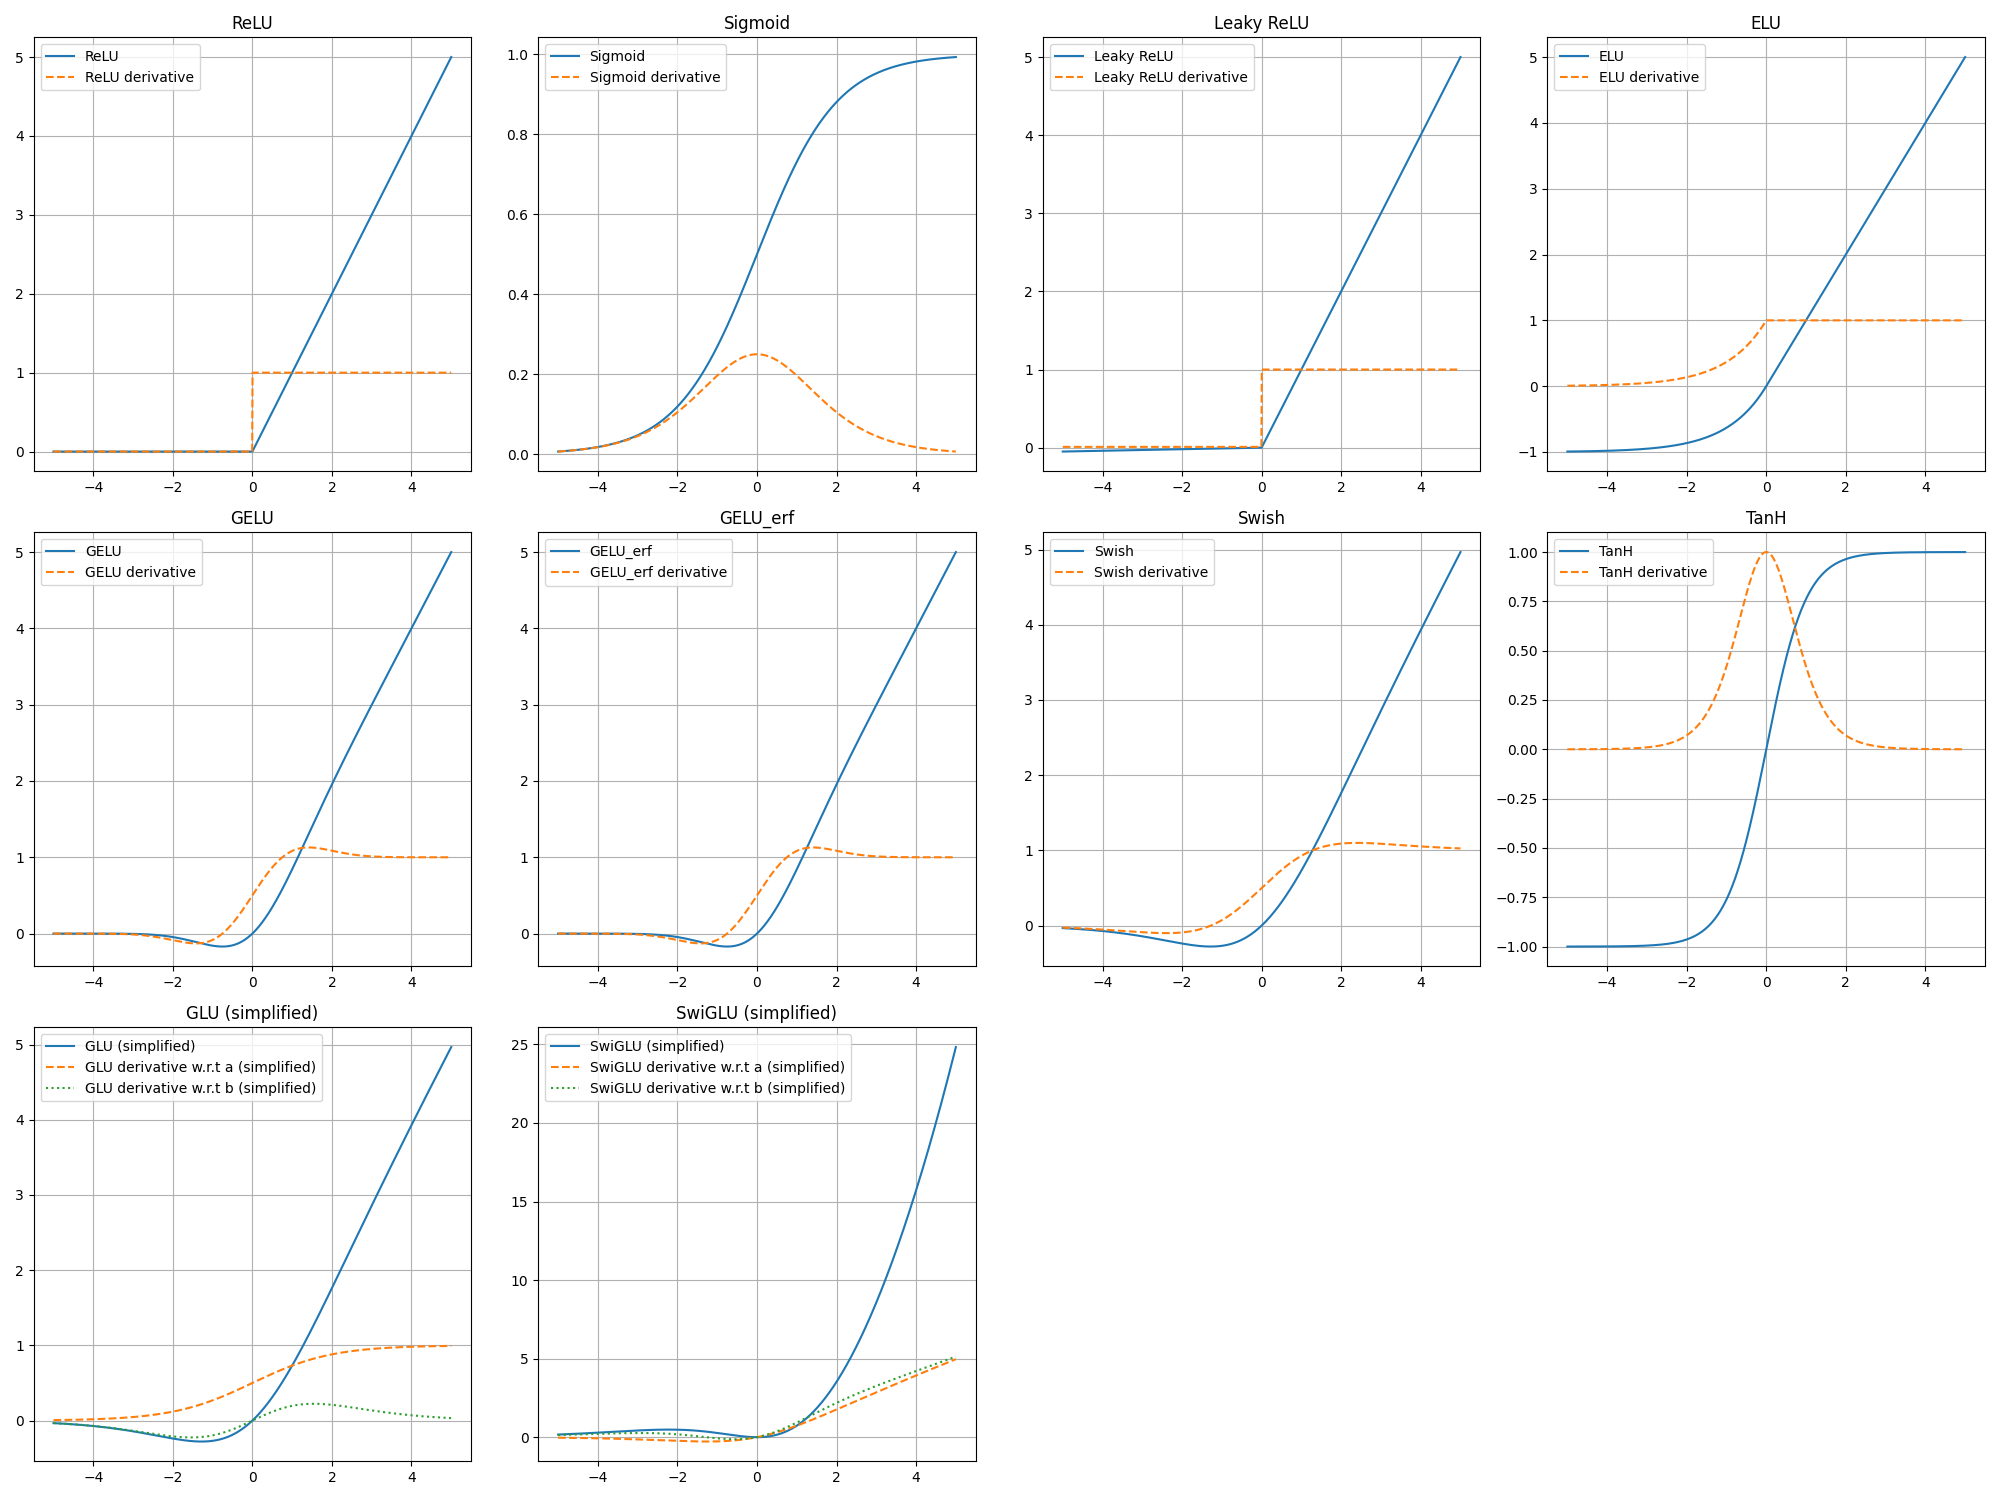
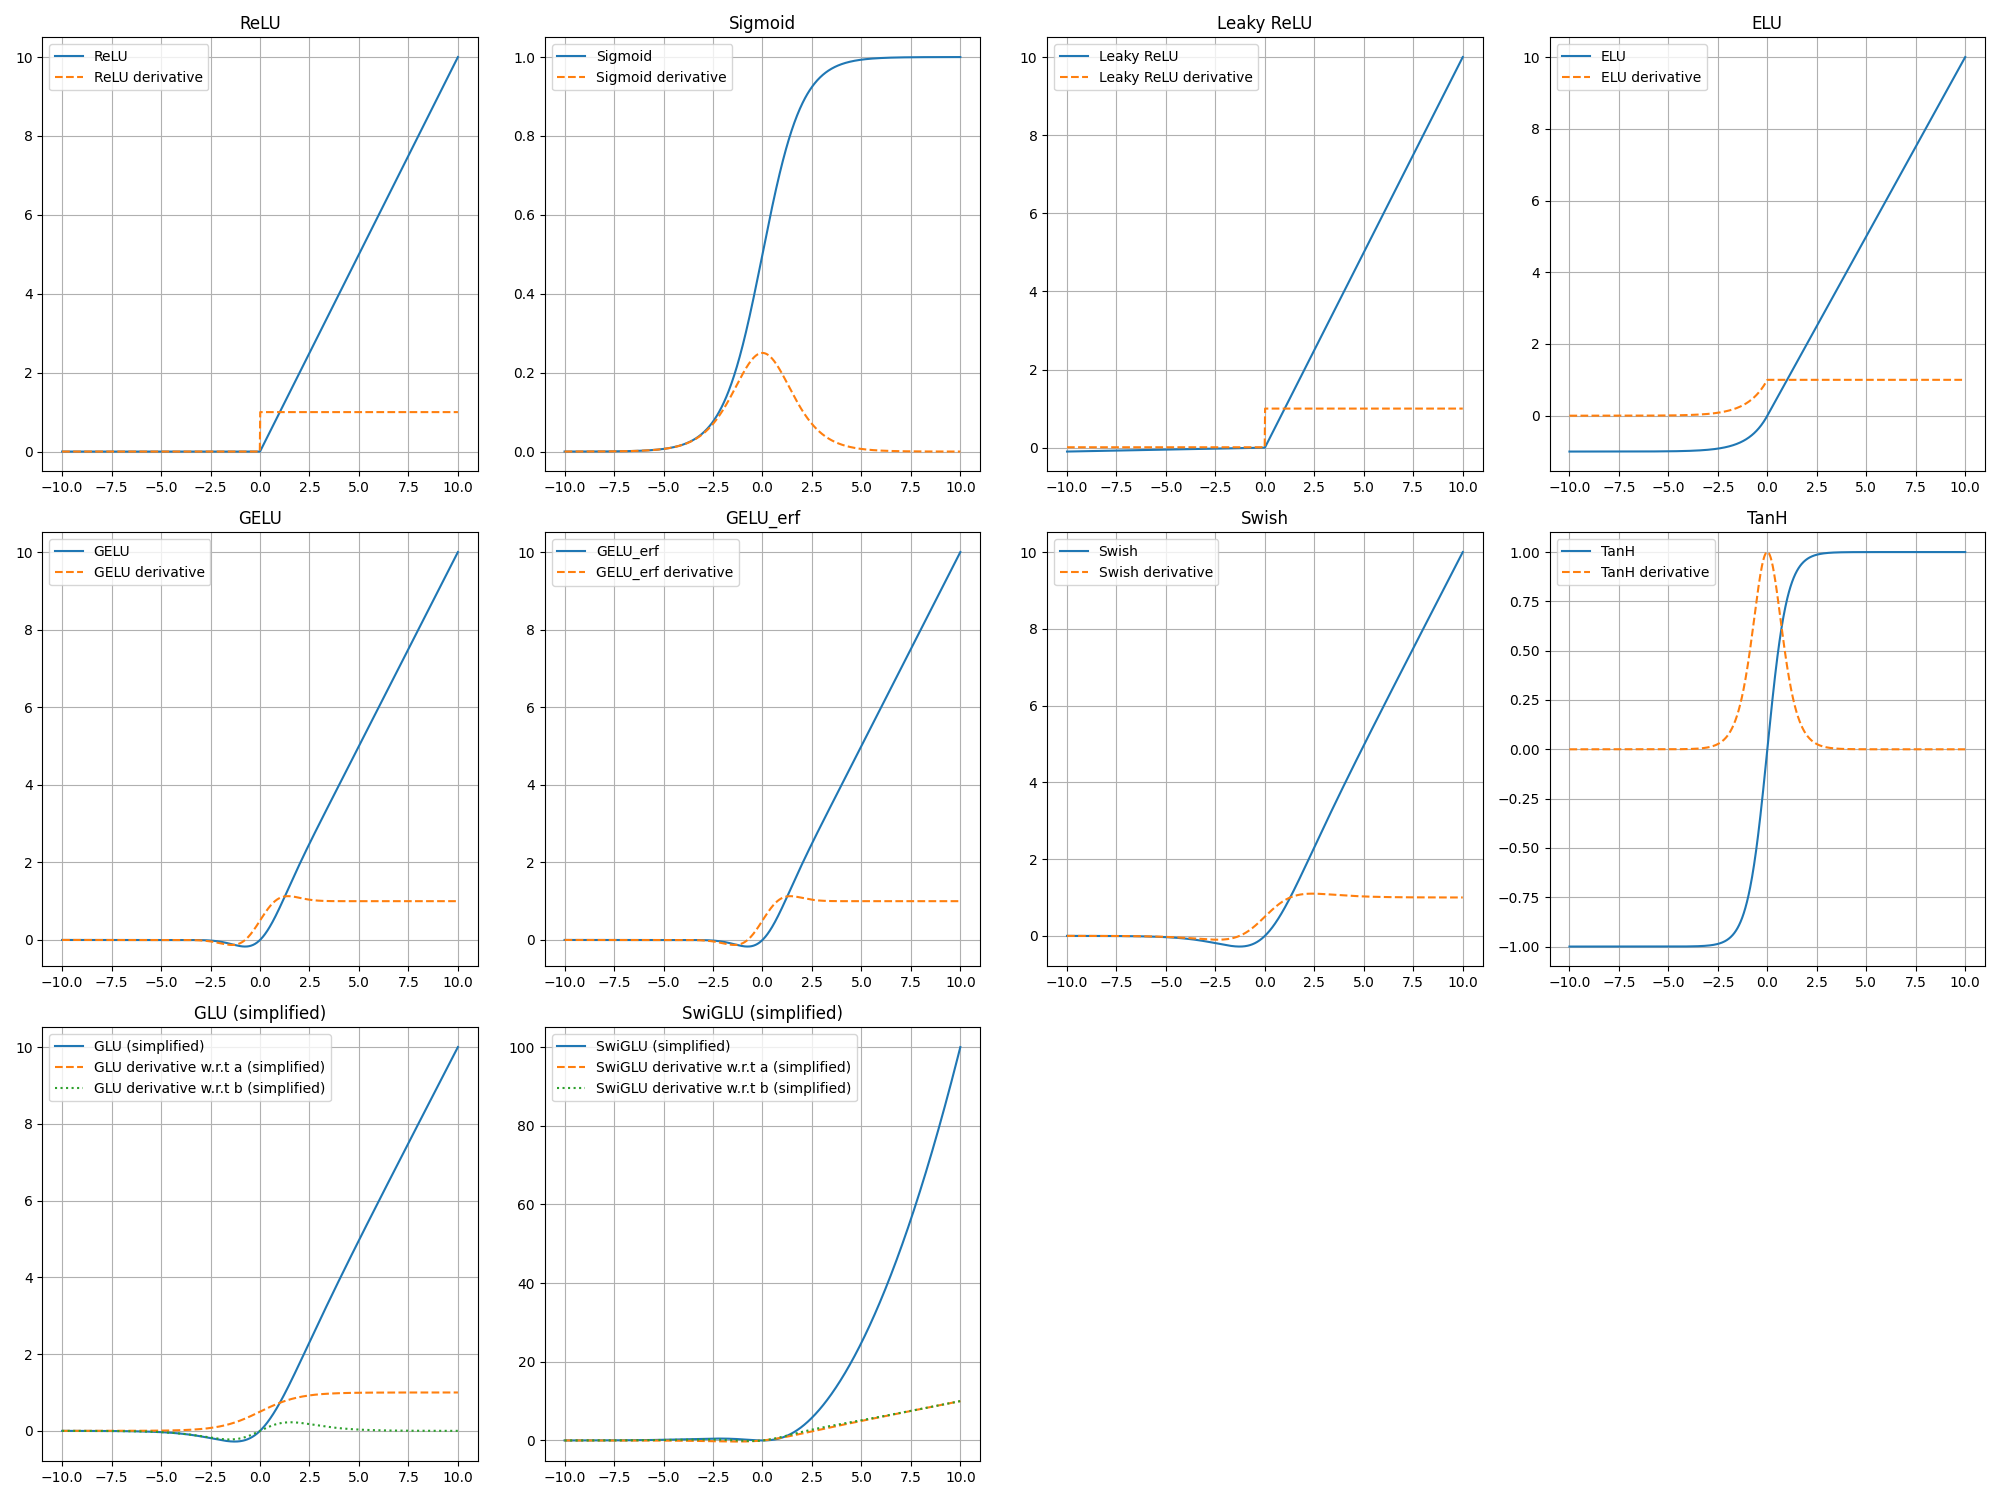
[#3] feat: enlarge the range for plot

diff --git a/Activation/activation_valid.py b/Activation/activation_valid.py
@@ -151,7 +151,7 @@ def pytorch_swiglu(x, dim=-1):
 
 def validate_activations():
     # Create input data
-    x = np.linspace(-5, 5, 1000)
+    x = np.linspace(-10, 10, 1000)
 
     # Dictionary to hold functions and their PyTorch equivalents
     functions = {

diff --git a/README.md b/README.md
@@ -1,12 +1,15 @@
 # Parallel_Lab
 This repo is created to learn paralleism technology
 
-## 📋 CUDA
+## 📋 DNN and Attention
 
-flash attention v1 & v2
+# flash attention v1 & v2
 
  - [x] Update the flash attention v2 using CUDA basd on the [flash-attention-minimal](https://github.com/tspeterkim/flash-attention-minimal)
  - [ ] Optimizing the flash attention v2 with MMA and other CUDA tricks
+
+# Attention
+ - [x] Add Activation code for numpy and validate them with PyTorch
  - 
 ## 📖 References ([©back👆🏻](#contents))
 <div id="ref"></div>  
